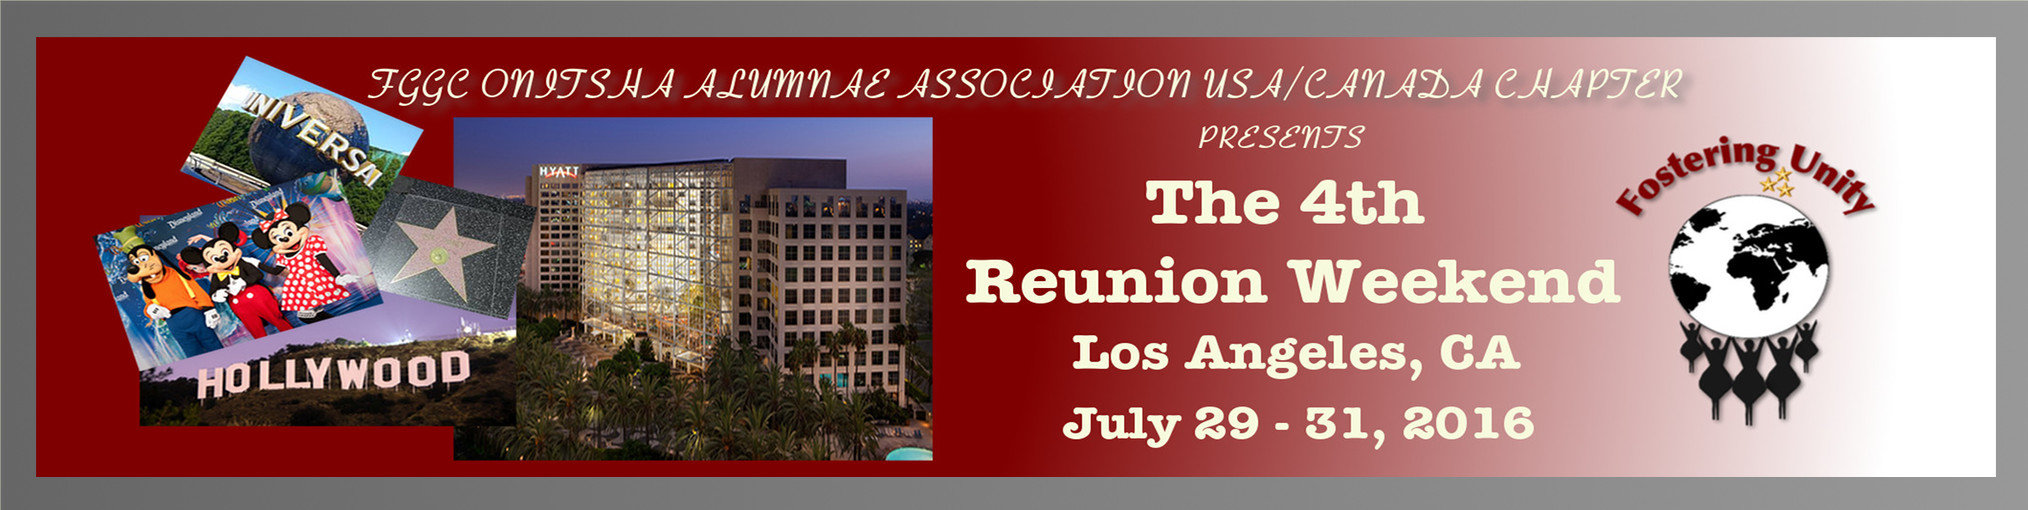
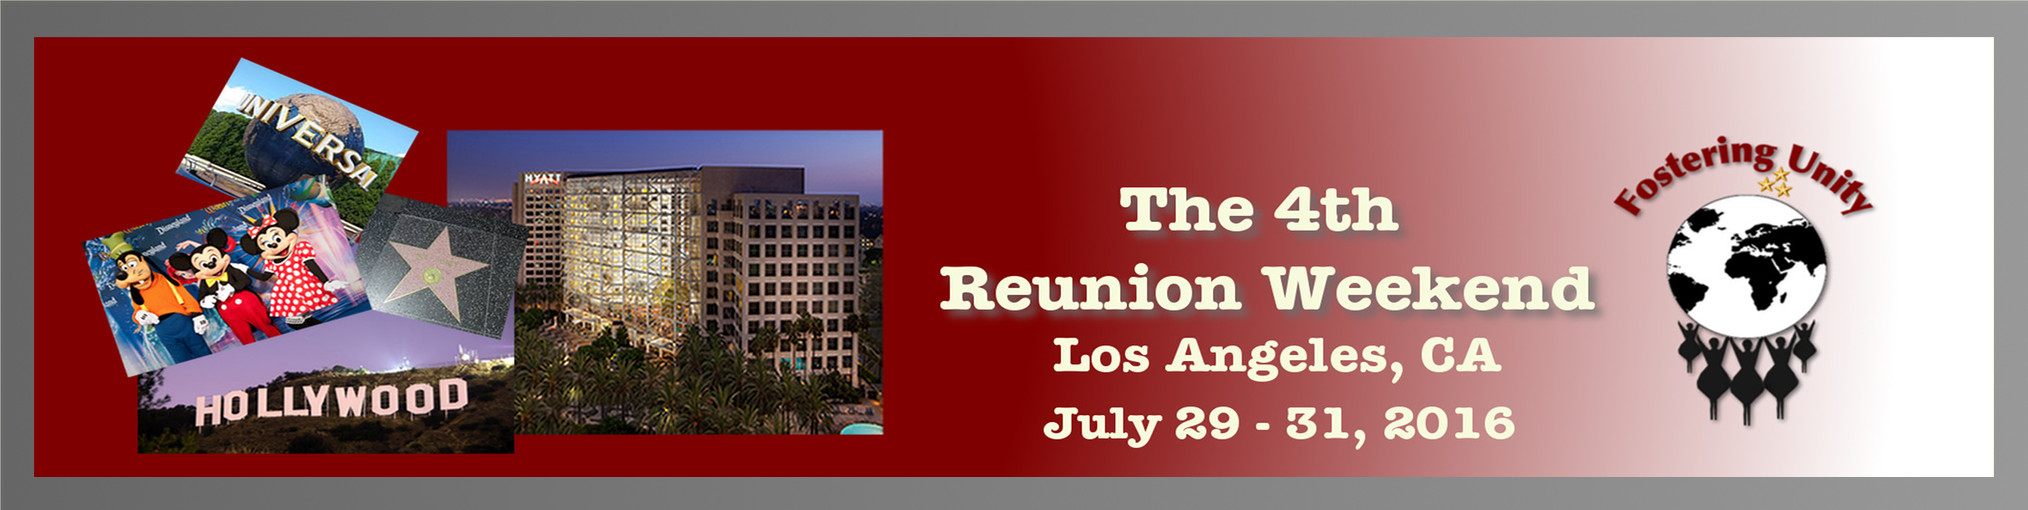
updates

diff --git a/_layouts/home.html b/_layouts/home.html
@@ -16,11 +16,12 @@
 
 <div id="owl-demo" class="owl-carousel owl-theme">
 <!--  <div class="item"> <a href="{{ site.url }}/happyfoundersday/"><img src="{{ site.url }}/images/hfdhome.jpg" alt="Happy Founder's Day"></a></div> -->
-  <div class="item"> <a href="{{ site.url }}/reunion2016"><img src="{{ site.url }}/images/reunionhome.jpg" alt="Reunion 2016"></a> </div>  
-<!--   <div class="item"> <a href="{{ site.url }}/reunion2016"><img src="{{ site.url }}/images/newreunionhome.jpg" alt="Reunion 2016"></a> </div> -->
+<!--    <div class="item"> <a href="{{ site.url }}/reunion2016"><img src="{{ site.url }}/images/reunionhome.jpg" alt="Reunion 2016"></a> </div>   -->
+ <div class="item"> <a href="{{ site.url }}/reunion2016"><img src="{{ site.url }}/images/newreunionhome.jpg" alt="Reunion 2016"></a> </div>
   <div class="item"> <a href="{{ site.url }}/octoberawareness"><img src="{{ site.url }}/images/bcahome.jpg" alt="Join Now"></a>  </div>
   <div class="item"> <a href="{{ site.url }}/openforbusiness"><img src="{{ site.url }}/images/merchshophome.jpg" alt="Shop"></a></div> 
   <div class="item"> <a href="{{ site.url }}/spotlight/reunion2016/profile-kontessa/"><img src="{{ site.url }}/images/kontessahome.png" alt="Spotlight Corner"></a></div>
+  <div class="item"> <a href="{{ site.url }}/reunion2016/reunion-gala-venue-unveiled/"><img src="{{ site.url }}/images/hyatthome.jpg" alt="Reunion 2016"></a> </div>
   <div class="item"> <a href="{{ site.url }}/join"><img src="{{ site.url }}/images/joinhomev2.jpg" alt="Join Now"></a>  </div>
 <!--  <div class="item"> <a href="{{ site.url }}/spotlight/reunion2016/profile-noni/"><img src="{{ site.url }}/images/hfdhome.jpg" alt="Happy Founder's Dat"></a></div> -->
 </div>

diff --git a/_posts/2015-11-06-reunion-gala-venue-unveiled.md b/_posts/2015-11-06-reunion-gala-venue-unveiled.md
@@ -19,7 +19,7 @@ The Gala & Fundraising Ball will take place in one of the hotel's grand ballroom
 
 Check out this slideshow of the hotel! This promises to be a truly fantastic getaway weekend and the Planning Committee are putting together activities to make it a “5-star weekend”.
 
-<iframe width="560" height="315" src="https://www.youtube.com/embed/wyslm5OmqiI" frameborder="0" > </iframe>
+<iframe width="560" height="315" src="https://www.youtube.com/embed/ZnBzb2PtPzM" frameborder="0" > </iframe>
 
 ## Planning Committee
 * Chinwe Onyekwelu Abaelu - Class of '89

diff --git a/reunion2016/index.md b/reunion2016/index.md
@@ -5,6 +5,6 @@ title: "Reunion LA 2016"
 description: "Reunion LA 2016"
 tags: [Jekyll, theme, responsive, blog, template]
 image:
-  feature: reunionbanner2016.jpg
+  feature: reunionbanner-LA2016v1.jpg
   credit: Ifeyinwa Obi
 ---
